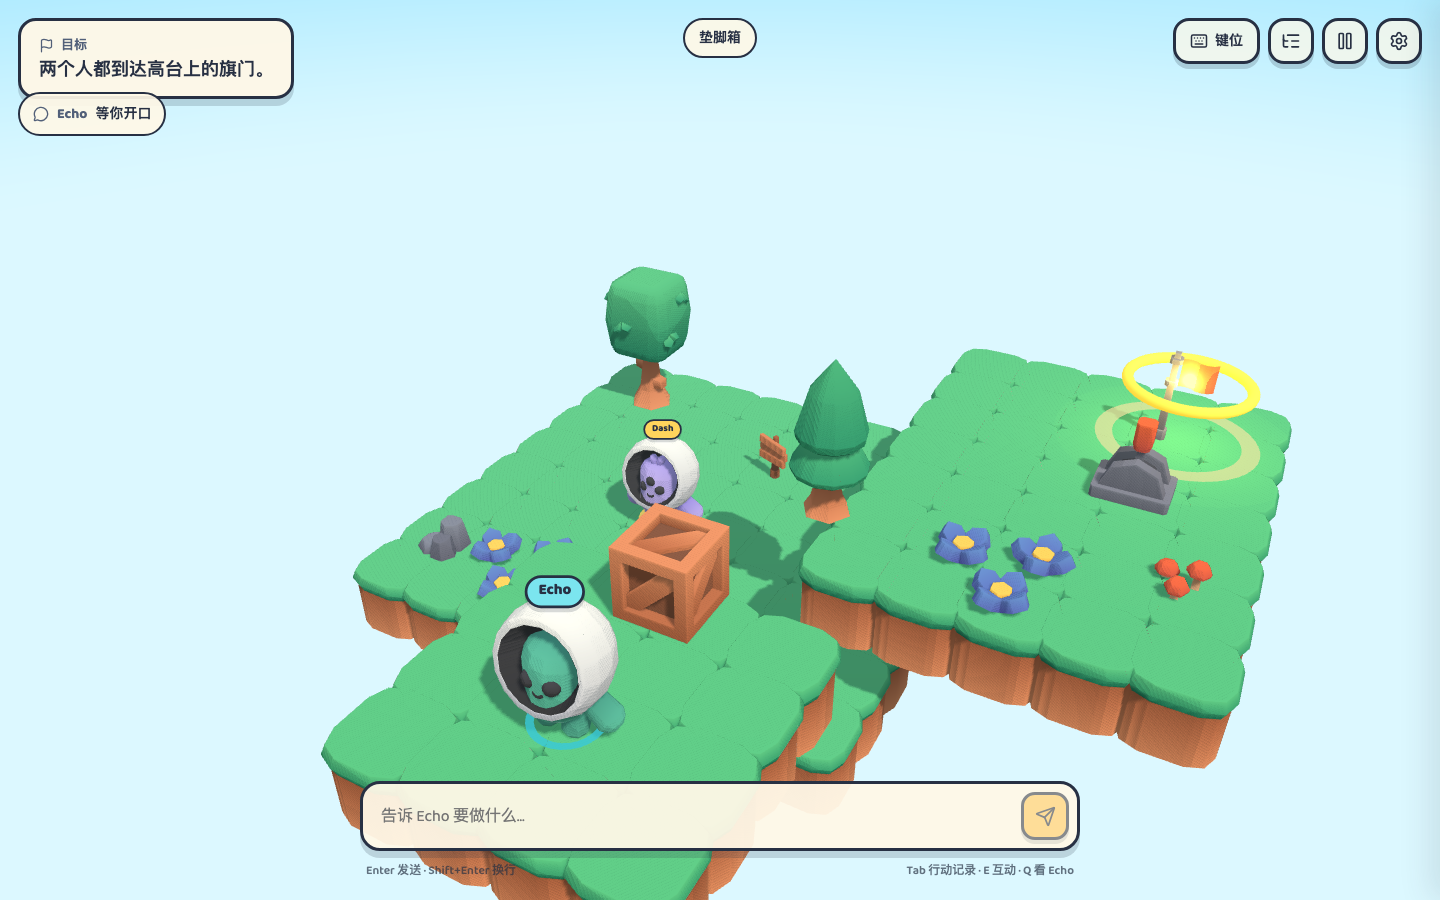
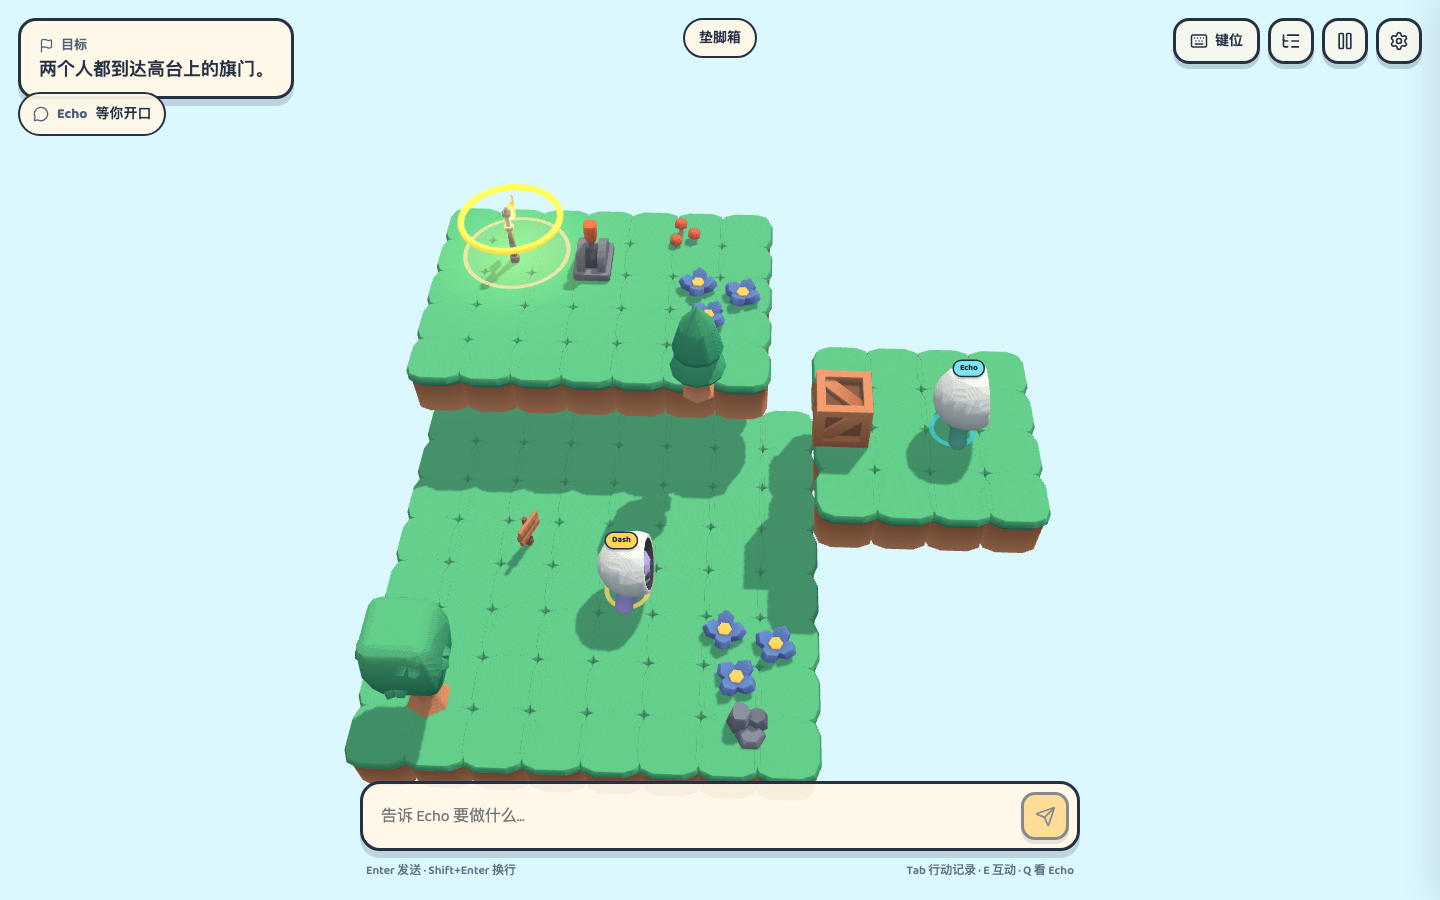
feat: add overview camera framing for each level

Changed region(s): [[0.2188, 0.1867, 0.9062, 0.9333], [0.0, 0.0, 1.0, 0.0933], [0.2812, 0.9333, 0.5312, 1.0]]

diff --git a/apps/web/src/game/CameraRig.tsx b/apps/web/src/game/CameraRig.tsx
@@ -3,6 +3,7 @@ import { useEffect, useMemo, useRef } from 'react';
 import * as THREE from 'three';
 import type { GameSession } from '@listen-up/game';
 import type { InputState } from './input';
+import { OVERVIEW_PITCH, createOverviewFrame, fitCameraDistance } from './overview';
 
 interface CameraRigProps {
   session: GameSession;
@@ -10,42 +11,33 @@ interface CameraRigProps {
   reduceMotion: boolean;
 }
 
+const FOLLOW_XZ = 0.1;
+const FOLLOW_Y = 0.16;
+const MIN_PITCH = 0.32;
+const MAX_PITCH = 1.28;
+const MIN_ZOOM = 0.45;
+const MAX_ZOOM = 1.35;
+const FOCUS_ZOOM = 0.5;
+
 function clamp(value: number, min: number, max: number): number {
   return Math.max(min, Math.min(max, value));
 }
 
 export function CameraRig({ session, input, reduceMotion }: CameraRigProps) {
-  const { camera, gl } = useThree();
-  const framing = useMemo(() => {
-    let minX = Number.POSITIVE_INFINITY;
-    let maxX = Number.NEGATIVE_INFINITY;
-    let minY = Number.POSITIVE_INFINITY;
-    let maxY = Number.NEGATIVE_INFINITY;
-    let minZ = Number.POSITIVE_INFINITY;
-    let maxZ = Number.NEGATIVE_INFINITY;
-    for (const block of session.level.blocks) {
-      minX = Math.min(minX, block.at.x);
-      maxX = Math.max(maxX, block.at.x + block.size.x);
-      minY = Math.min(minY, block.at.y);
-      maxY = Math.max(maxY, block.at.y + block.size.y);
-      minZ = Math.min(minZ, block.at.z);
-      maxZ = Math.max(maxZ, block.at.z + block.size.z);
-    }
-    const valid = Number.isFinite(minX);
-    return {
-      center: new THREE.Vector3(
-        valid ? (minX + maxX) / 2 : 0,
-        valid ? (minY + maxY) / 2 + 1 : 1.5,
-        valid ? (minZ + maxZ) / 2 : 0,
-      ),
-      span: valid ? Math.max(maxX - minX, maxZ - minZ) : 12,
-    };
-  }, [session.level.blocks]);
+  const { camera, gl, size } = useThree();
+  const framing = useMemo(() => createOverviewFrame(session.level), [session.level]);
 
-  const cameraState = useRef({ yaw: session.level.cameraYaw ?? 0.5, pitch: 0.55, distance: 11 });
-  const target = useRef(framing.center.clone());
+  const cameraState = useRef({
+    yaw: session.level.cameraYaw ?? 0.5,
+    pitch: OVERVIEW_PITCH,
+    zoom: 1,
+  });
+  const target = useRef(framing.target.clone());
   const desired = useRef(new THREE.Vector3());
   const offset = useRef(new THREE.Vector3());
+  const wanted = useRef(new THREE.Vector3());
+  const fitted = useRef({ key: '', distance: 0 });
+  const initialized = useRef(false);
 
   useEffect(() => {
     if (import.meta.env.DEV) window.listenupCamera = camera;
@@ -65,8 +57,8 @@ export function CameraRig({ session, input, reduceMotion }: CameraRigProps) {
       cameraState.current.yaw -= (event.clientX - lastX) * 0.005;
       cameraState.current.pitch = clamp(
         cameraState.current.pitch + (event.clientY - lastY) * 0.0035,
-        0.16,
-        1.02,
+        MIN_PITCH,
+        MAX_PITCH,
       );
       lastX = event.clientX;
       lastY = event.clientY;
@@ -76,10 +68,10 @@ export function CameraRig({ session, input, reduceMotion }: CameraRigProps) {
     };
     const wheel = (event: WheelEvent) => {
       event.preventDefault();
-      cameraState.current.distance = clamp(
-        cameraState.current.distance + event.deltaY * 0.008,
-        6.5,
-        18,
+      cameraState.current.zoom = clamp(
+        cameraState.current.zoom + event.deltaY * 0.0007,
+        MIN_ZOOM,
+        MAX_ZOOM,
       );
     };
 
@@ -108,19 +100,33 @@ export function CameraRig({ session, input, reduceMotion }: CameraRigProps) {
       desired.current.set(b.x, b.y + 1.2, b.z);
     } else {
       desired.current.set(
-        framing.center.x + (a.x - framing.center.x) * 0.16 + (b.x - framing.center.x) * 0.16,
-        Math.max(framing.center.y, Math.max(a.y, b.y) + 1.0),
-        framing.center.z + (a.z - framing.center.z) * 0.16 + (b.z - framing.center.z) * 0.16,
+        framing.target.x + ((a.x + b.x) / 2 - framing.target.x) * FOLLOW_XZ,
+        framing.target.y + ((a.y + b.y) / 2 - framing.target.y) * FOLLOW_Y,
+        framing.target.z + ((a.z + b.z) / 2 - framing.target.z) * FOLLOW_XZ,
       );
     }
 
     const smoothing = reduceMotion ? 1 - Math.exp(-delta * 12) : 1 - Math.exp(-delta * 5);
     target.current.lerp(desired.current, smoothing);
 
-    const distance =
-      clamp(framing.span * 1.16, 12.5, 22) *
-      (cameraState.current.distance / 11) *
-      (focusB ? 0.72 : 1);
+    const aspect = size.width / Math.max(size.height, 1);
+    const fov = camera instanceof THREE.PerspectiveCamera ? camera.fov : 45;
+    const key = `${cameraState.current.yaw.toFixed(3)}:${cameraState.current.pitch.toFixed(3)}:${aspect.toFixed(3)}`;
+    if (fitted.current.key !== key) {
+      fitted.current = {
+        key,
+        distance: fitCameraDistance(
+          framing.points,
+          framing.target,
+          cameraState.current.yaw,
+          cameraState.current.pitch,
+          fov,
+          aspect,
+        ),
+      };
+    }
+
+    const distance = fitted.current.distance * cameraState.current.zoom * (focusB ? FOCUS_ZOOM : 1);
     const pitch = cameraState.current.pitch;
     offset.current
       .set(
@@ -130,8 +136,13 @@ export function CameraRig({ session, input, reduceMotion }: CameraRigProps) {
       )
       .multiplyScalar(distance);
 
-    const wanted = desired.current.copy(target.current).add(offset.current);
-    camera.position.lerp(wanted, 1 - Math.exp(-delta * 7));
+    wanted.current.copy(target.current).add(offset.current);
+    if (!initialized.current) {
+      camera.position.copy(wanted.current);
+      initialized.current = true;
+    } else {
+      camera.position.lerp(wanted.current, 1 - Math.exp(-delta * 7));
+    }
     camera.lookAt(target.current);
   });
 

diff --git a/apps/web/src/game/overview.ts b/apps/web/src/game/overview.ts
@@ -1,0 +1,129 @@
+import * as THREE from 'three';
+import type { LevelDef } from '@listen-up/sim';
+import { decorHeights } from './decor';
+
+/** The default angle for the opening overview: high enough to read the whole map. */
+export const OVERVIEW_PITCH = 0.9;
+/** Keep the level inside this share of the horizontal viewport. */
+const HORIZONTAL_FILL = 0.94;
+/** Keep the level inside this share of the vertical viewport. */
+const VERTICAL_FILL = 0.84;
+/** A little breathing room around blocks for grass tufts and cliff edges. */
+const FOOTPRINT_PAD = 0.35;
+
+export interface OverviewFrame {
+  /** The point the camera looks at when both characters are at rest. */
+  target: THREE.Vector3;
+  /** Candidate world points used to fit the whole level into view. */
+  points: THREE.Vector3[];
+}
+
+/**
+ * Collects the corners of every block plus the tallest points of props and
+ * decor, so the initial camera can frame the complete playable area instead
+ * of only its centre.
+ */
+export function createOverviewFrame(level: LevelDef): OverviewFrame {
+  const bounds = new THREE.Box3();
+  const points: THREE.Vector3[] = [];
+
+  for (const block of level.blocks) {
+    const minX = block.at.x - FOOTPRINT_PAD;
+    const maxX = block.at.x + block.size.x + FOOTPRINT_PAD;
+    const minZ = block.at.z - FOOTPRINT_PAD;
+    const maxZ = block.at.z + block.size.z + FOOTPRINT_PAD;
+
+    bounds.expandByPoint(new THREE.Vector3(block.at.x, block.at.y, block.at.z));
+    bounds.expandByPoint(
+      new THREE.Vector3(
+        block.at.x + block.size.x,
+        block.at.y + block.size.y,
+        block.at.z + block.size.z,
+      ),
+    );
+
+    for (const x of [minX, maxX]) {
+      for (const z of [minZ, maxZ]) {
+        points.push(new THREE.Vector3(x, block.at.y, z));
+        points.push(new THREE.Vector3(x, block.at.y + block.size.y, z));
+      }
+    }
+  }
+
+  for (const item of level.decor) {
+    const height = (decorHeights[item.model] ?? 0.8) * (item.scale ?? 1);
+    points.push(new THREE.Vector3(item.at.x, item.at.y + height, item.at.z));
+  }
+
+  for (const item of level.props) {
+    const height = item.size?.y ?? 1;
+    points.push(new THREE.Vector3(item.at.x, item.at.y + height, item.at.z));
+  }
+
+  if (bounds.isEmpty()) {
+    return {
+      target: new THREE.Vector3(0, 1.4, 0),
+      points: [
+        new THREE.Vector3(-6, 0, -6),
+        new THREE.Vector3(6, 0, -6),
+        new THREE.Vector3(-6, 0, 6),
+        new THREE.Vector3(6, 0, 6),
+      ],
+    };
+  }
+
+  const target = bounds.getCenter(new THREE.Vector3());
+  target.y += 0.9;
+  return { target, points };
+}
+
+/**
+ * How far the camera must sit from {@link target} to see every point from the
+ * given yaw/pitch. Uses the real perspective frustum, not a bounding sphere, so
+ * wide or L-shaped levels do not get pushed unnecessarily far away.
+ */
+export function fitCameraDistance(
+  points: readonly THREE.Vector3[],
+  target: THREE.Vector3,
+  yaw: number,
+  pitch: number,
+  fovDegrees: number,
+  aspect: number,
+): number {
+  const tanVertical = Math.tan((fovDegrees * Math.PI) / 360);
+  const tanHorizontal = tanVertical * Math.max(aspect, 0.1);
+  const cosYaw = Math.cos(yaw);
+  const sinYaw = Math.sin(yaw);
+  const cosPitch = Math.cos(pitch);
+  const sinPitch = Math.sin(pitch);
+
+  // Camera-space axes for a camera looking at the target from (yaw, pitch).
+  const rightX = cosYaw;
+  const rightZ = -sinYaw;
+  const upX = -sinYaw * sinPitch;
+  const upY = cosPitch;
+  const upZ = -cosYaw * sinPitch;
+  const towardX = sinYaw * cosPitch;
+  const towardY = sinPitch;
+  const towardZ = cosYaw * cosPitch;
+
+  let distance = 0;
+  for (const point of points) {
+    const dx = point.x - target.x;
+    const dy = point.y - target.y;
+    const dz = point.z - target.z;
+
+    const horizontal = Math.abs(dx * rightX + dz * rightZ);
+    const vertical = Math.abs(dx * upX + dy * upY + dz * upZ);
+    // Positive when the point is nearer to the camera than the target.
+    const near = dx * towardX + dy * towardY + dz * towardZ;
+
+    distance = Math.max(
+      distance,
+      near + horizontal / (tanHorizontal * HORIZONTAL_FILL),
+      near + vertical / (tanVertical * VERTICAL_FILL),
+    );
+  }
+
+  return Math.max(distance, 4);
+}

diff --git a/apps/web/src/game/overview.test.ts b/apps/web/src/game/overview.test.ts
@@ -1,0 +1,64 @@
+import { describe, expect, it } from 'vitest';
+import * as THREE from 'three';
+import { levels } from '@listen-up/sim';
+import { createOverviewFrame, fitCameraDistance } from './overview';
+
+describe('createOverviewFrame', () => {
+  it('covers every block and leaves headroom for the camera', () => {
+    const frame = createOverviewFrame(levels[0]!);
+    expect(frame.points.length).toBeGreaterThan(levels[0]!.blocks.length * 4);
+    expect(frame.target.x).toBeCloseTo(6);
+    expect(frame.target.z).toBeCloseTo(6);
+    for (const point of frame.points) {
+      expect(Number.isFinite(point.x + point.y + point.z)).toBe(true);
+    }
+  });
+
+  it('includes tall decor above the playable surfaces', () => {
+    const frame = createOverviewFrame(levels[0]!);
+    const highest = Math.max(...frame.points.map((point) => point.y));
+    expect(highest).toBeGreaterThan(4);
+  });
+});
+
+describe('fitCameraDistance', () => {
+  const target = new THREE.Vector3(0, 1, 0);
+  const points: THREE.Vector3[] = [];
+  for (const x of [-6, 6]) {
+    for (const y of [0, 3]) {
+      for (const z of [-6, 6]) {
+        points.push(new THREE.Vector3(x, y, z));
+      }
+    }
+  }
+
+  function assertInsideView(distance: number, aspect: number) {
+    const camera = new THREE.PerspectiveCamera(45, aspect, 0.1, 200);
+    const yaw = 4.75;
+    const pitch = 0.9;
+    camera.position.set(
+      target.x + Math.sin(yaw) * Math.cos(pitch) * distance,
+      target.y + Math.sin(pitch) * distance,
+      target.z + Math.cos(yaw) * Math.cos(pitch) * distance,
+    );
+    camera.lookAt(target);
+    camera.updateMatrixWorld();
+    for (const point of points) {
+      const projected = point.clone().project(camera);
+      expect(Math.abs(projected.x)).toBeLessThanOrEqual(0.941);
+      expect(Math.abs(projected.y)).toBeLessThanOrEqual(0.841);
+    }
+  }
+
+  it('keeps the whole level inside the framing margins', () => {
+    for (const aspect of [1.6, 4 / 3, 1.8]) {
+      assertInsideView(fitCameraDistance(points, target, 4.75, 0.9, 45, aspect), aspect);
+    }
+  });
+
+  it('moves farther back for narrow viewports', () => {
+    const wide = fitCameraDistance(points, target, 4.75, 0.9, 45, 1.8);
+    const narrow = fitCameraDistance(points, target, 4.75, 0.9, 45, 0.8);
+    expect(narrow).toBeGreaterThan(wide);
+  });
+});

diff --git a/apps/web/src/game/LevelView.tsx b/apps/web/src/game/LevelView.tsx
@@ -1,18 +1,8 @@
 import { memo, useMemo } from 'react';
 import type { Object3D } from 'three';
 import type { BlockSpec, DecorSpec, LevelDef } from '@listen-up/sim';
+import { decorHeights } from './decor';
 import { cloneStatic, useKenney, useStaticModel } from './models';
-
-const decorHeights: Record<string, number> = {
-  tree: 2.35,
-  'tree-pine': 2.5,
-  flowers: 0.3,
-  mushrooms: 0.4,
-  sign: 0.8,
-  rocks: 0.55,
-  grass: 0.28,
-  'fence-straight': 0.8,
-};
 
 const Block = memo(function Block({ source, block }: { source: Object3D; block: BlockSpec }) {
   const model = useStaticModel(source, 1);

diff --git a/packages/sim/src/levels.ts b/packages/sim/src/levels.ts
@@ -86,7 +86,8 @@ const levelOne: LevelDef = {
     { id: 'bridge_edge', label: '桥边', aliases: ['桥头'], at: { x: 7, y: 2, z: 7.5 } },
     { id: 'crate_landing', label: '木箱落点', aliases: ['箱子下面'], at: { x: 6, y: 0, z: 6.5 } },
   ],
-  cameraYaw: 0.5,
+  // 从西侧看向高台，院子和两块高台能同时落在画面里。
+  cameraYaw: 4.75,
   decor: [
     decor('tree_a', 'tree', { x: 1.2, y: 0, z: 1.2 }, 1.1),
     decor('tree_b', 'tree-pine', { x: 6.8, y: 2, z: 5.7 }, 0.9),

diff --git a/apps/web/src/game/decor.ts b/apps/web/src/game/decor.ts
@@ -1,0 +1,10 @@
+export const decorHeights: Record<string, number> = {
+  tree: 2.35,
+  'tree-pine': 2.5,
+  flowers: 0.3,
+  mushrooms: 0.4,
+  sign: 0.8,
+  rocks: 0.55,
+  grass: 0.28,
+  'fence-straight': 0.8,
+};

diff --git a/README.md b/README.md
@@ -64,6 +64,8 @@ pnpm test:e2e   # Playwright 烟雾测试
 | H        | 打开帮助与键位            |
 | P / Esc  | 暂停 / 关闭输入           |
 
+每关开场会按当前窗口比例自动取景，先把整张地图装进画面；拖动环绕时会重新计算距离，滚轮可在全景和近景之间缩放。
+
 右上角的“键位”入口常驻，打开后包含完整键位和本关提示；也可以按 H。
 
 输入框默认不暂停世界：你打字时 Dash 停下，Echo 继续执行。设置里可以打开“输入时暂停世界”。发送指令后输入框会失焦，方便继续操作 Dash。
